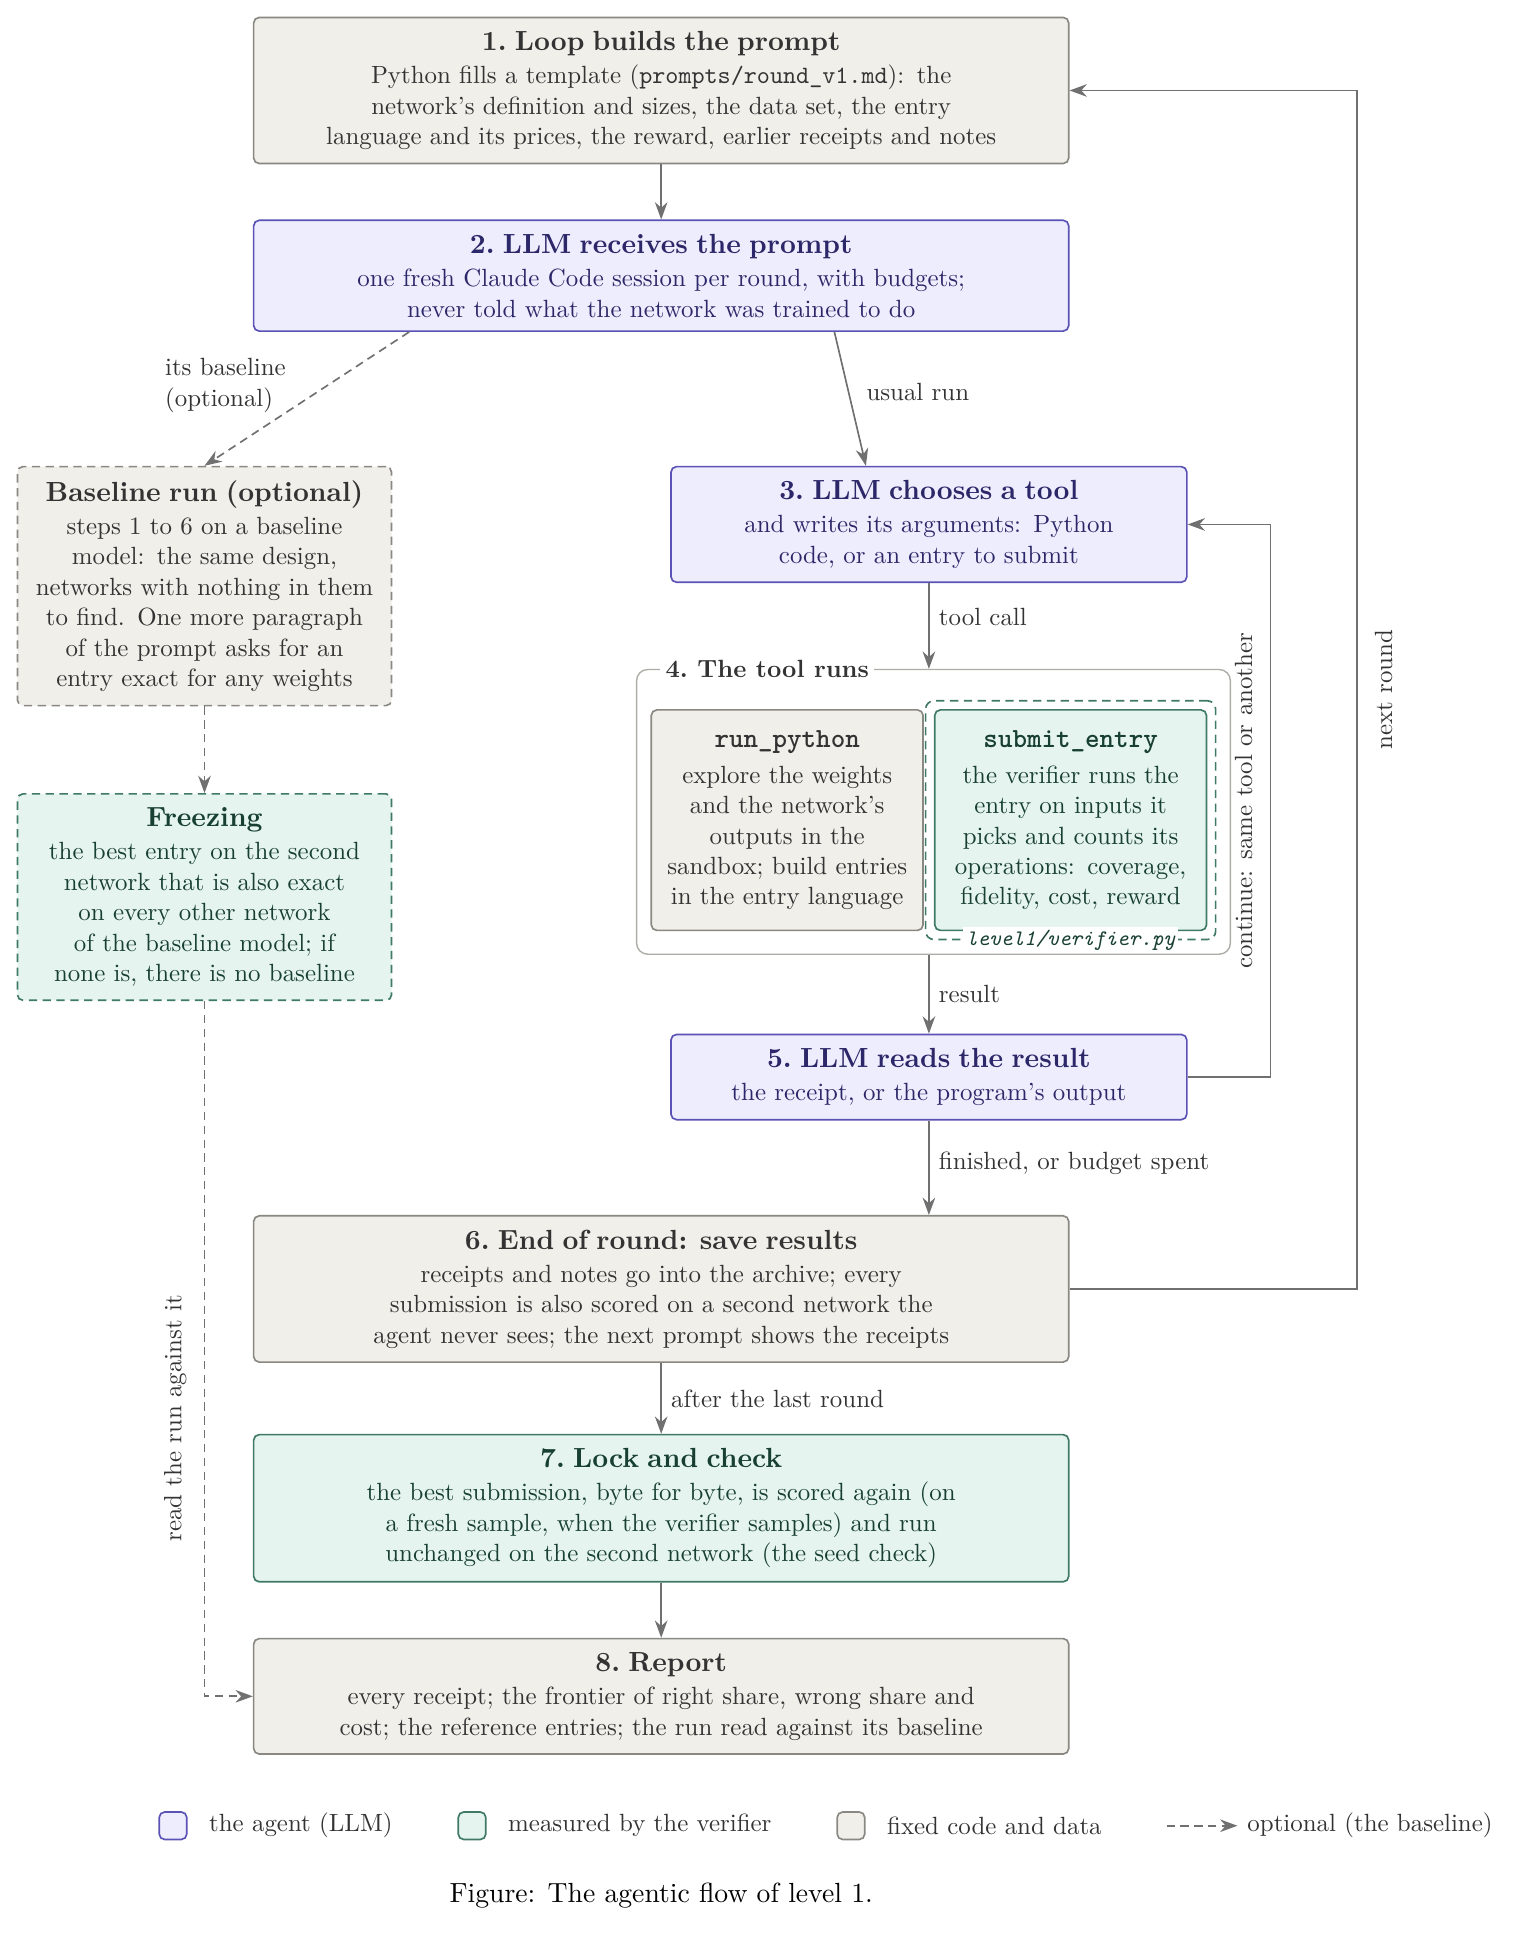
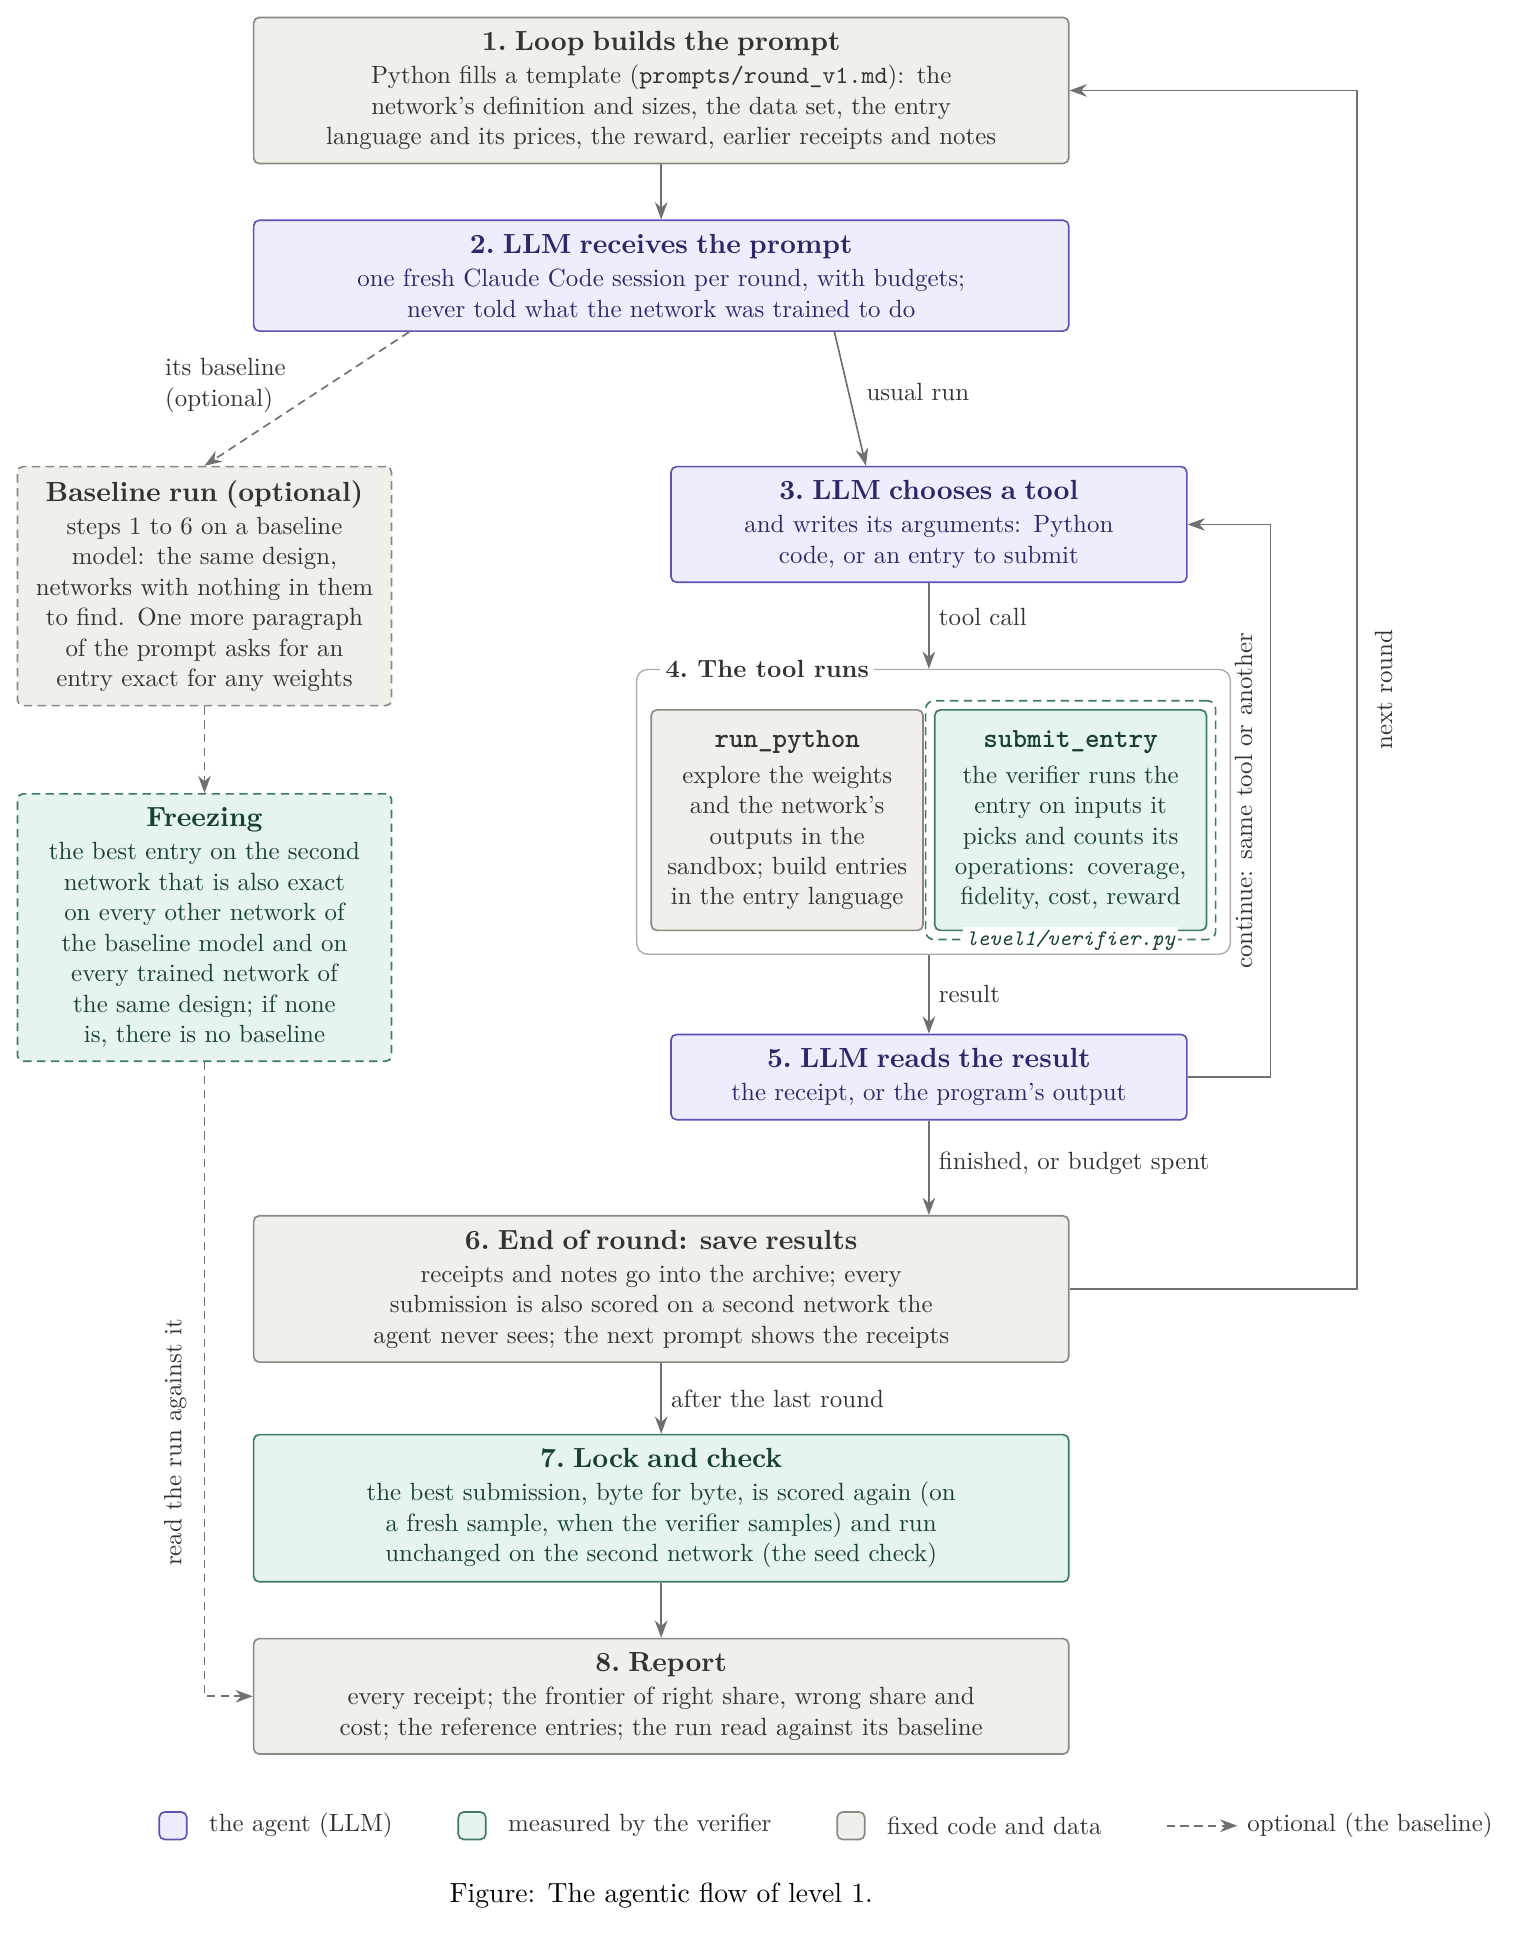
Flow figure: freezing also asks for exactness on every trained network of the same design
Claude-Session: https://claude.ai/code/session_0157n73R7ddwxFKEzWzgLafp

Changed region(s): [[0.0, 0.4654, 0.2785, 0.5584], [0.0928, 0.6825, 0.1238, 0.8066]]

diff --git a/docs/figures/level1-flow.tex b/docs/figures/level1-flow.tex
@@ -65,8 +65,8 @@
   steps 1 to 6 on a baseline model: the same design, networks with nothing in them to find. One more paragraph
   of the prompt asks for an entry exact for any weights};
 \node[meas, opt, text width=44mm, below=11mm of b1] (b2) {\tit{Freezing}
-  the best entry on the second network that is also exact on every other network of the baseline model;
-  if none is, there is no baseline};
+  the best entry on the second network that is also exact on every other network of the baseline model
+  and on every trained network of the same design; if none is, there is no baseline};
 
 % 6, 7, 8: below, across
 \node[fixed, text width=100mm, anchor=north] (p6) at ($(0,0 |- p5.south)+(0,-12mm)$) {\tit{6.\ End of round: save results}
